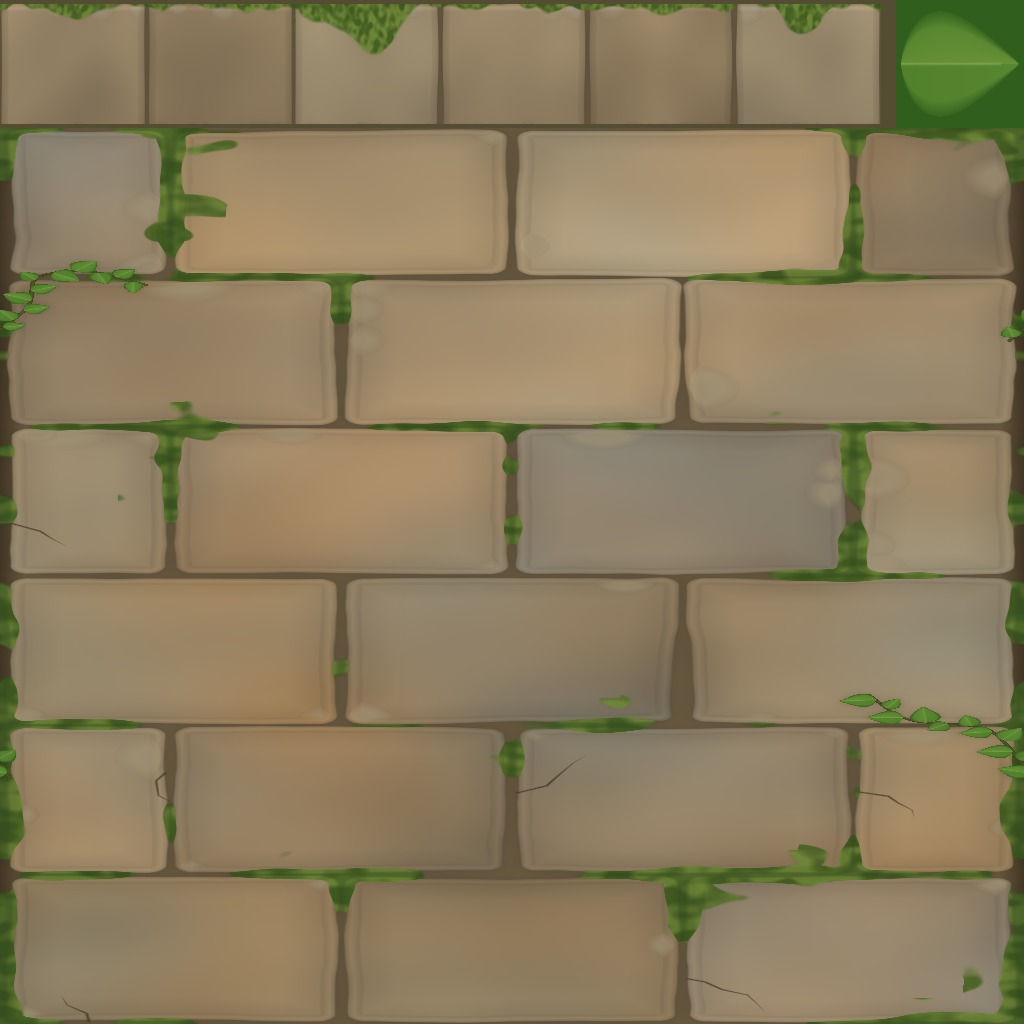
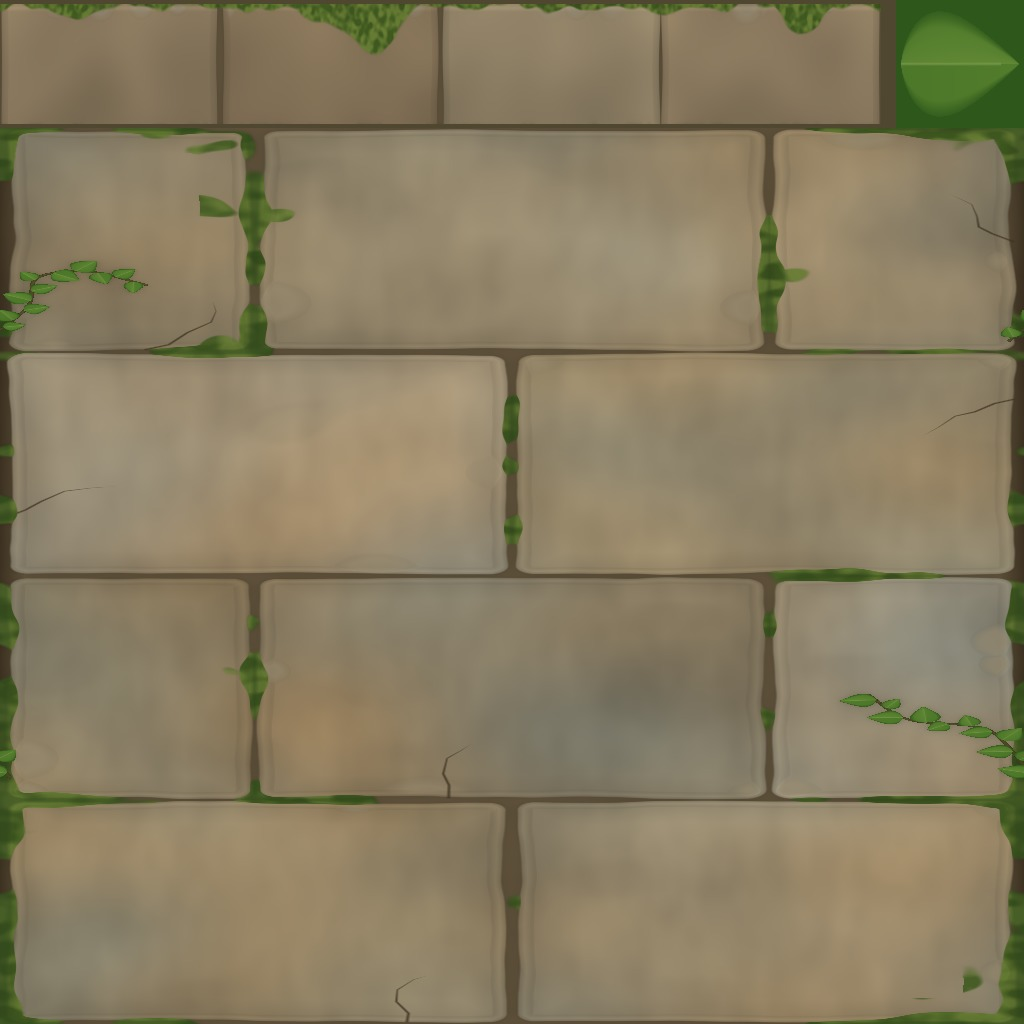
Piedra del túnel en sillares grandes y limpios (se leía recargada a toda velocidad)

diff --git a/tools/blender/build_tunnel_kit.py b/tools/blender/build_tunnel_kit.py
@@ -50,6 +50,12 @@ TAN15 = math.tan(math.radians(15))
 HWB = HW + T * TAN15              # semiancho en la cara exterior (inglete)
 JE = [-HW, -0.345, 0.345, HW]     # juntas hiladas pares
 JO = [-HW, -0.69, 0.0, 0.69, HW]  # juntas hiladas impares (aparejo a soga)
+# sillería de la textura: losas grandes, una por carril y hilada (el concepto C·3); a ladrillitos
+# se leía recargado a toda velocidad. La geometría sigue usando CL (ventanas y cristales).
+TNC = 4
+TCL = L / TNC                     # 1 m por hilada
+TJE = [-HW, 0.0, HW]              # dos sillares por carril, a soga
+TJO = [-HW, -0.52, 0.52, HW]
 G = 0.024                         # media llaga (referencia)
 GI, GS = 0.011, 0.022             # media llaga interior / en la costura de carril
 
@@ -240,11 +246,11 @@ def stone_top(seed=11):
     rng = np.random.default_rng(seed)
     shape = XX.shape
 
-    course = (np.floor(ZZ / CL).astype(np.int32)) % NC
+    course = (np.floor(ZZ / TCL).astype(np.int32)) % TNC
     kk = np.zeros(shape, np.int32)
     jl = np.zeros(shape, np.float32)
     jr = np.zeros(shape, np.float32)
-    for parity, J in ((0, JE), (1, JO)):
+    for parity, J in ((0, TJE), (1, TJO)):
         m = (course % 2) == parity
         Ja = np.array(J, np.float32)
         idx = np.clip(np.searchsorted(Ja, XX[m], side='right') - 1, 0, len(J) - 2)
@@ -252,11 +258,11 @@ def stone_top(seed=11):
         jl[m] = Ja[idx]
         jr[m] = Ja[idx + 1]
     bid = course * 5 + kk
-    NB = NC * 5
+    NB = TNC * 5
     cx = (jl + jr) / 2
     hx = (jr - jl) / 2
-    cz = (course + 0.5) * CL
-    hz = CL / 2
+    cz = (course + 0.5) * TCL
+    hz = TCL / 2
     lx = XX - cx
     lz = ZZ - cz
 
@@ -286,7 +292,8 @@ def stone_top(seed=11):
     prof = 0.45 * t + 0.55 * np.sqrt(1 - (1 - t) ** 2)
     top = (0.012 + base[bid] + tlx[bid] * lx + tlz[bid] * lz
            + dome[bid] * (1 - (lx / hx) ** 2) * (1 - (lz / hz) ** 2)
-           + 0.0018 * n1 + 0.0003 * n2)
+           + 0.0022 * n1 + 0.0006 * n2
+           + 0.0009 * pnoise(shape, dx * 6, dz, 0.3, seed + 15))       # veta en relieve
     GR = -0.026 + 0.0015 * n2
     seam = np.clip(1 - (HW - np.abs(XX)) / 0.05, 0, 1)
     GR = GR - 0.008 * seam
@@ -295,7 +302,7 @@ def stone_top(seed=11):
         m = bid == b
         if not m.any():
             continue
-        for _ in range(int(rng.integers(1, 3))):
+        for _ in range(int(rng.random() < 0.5)):
             side = int(rng.integers(4))
             dist = [ax_[m] - llx[m], ax_[m] + llx[m], az_ - lz[m], az_ + lz[m]][side]
             fw, fd = rng.uniform(0.09, 0.2), rng.uniform(0.004, 0.009)
@@ -312,7 +319,7 @@ def stone_top(seed=11):
         axb = float(ax_[m][0])
         ox = float(ccx[m][0] - cx[m][0])
         az = az_
-        for _ in range(int(rng.integers(1, 4))):
+        for _ in range(int(rng.integers(2, 5))):
             if rng.random() < 0.5:
                 px, pz = axb * rng.choice([-1, 1]), az * rng.choice([-1, 1])
             else:
@@ -328,7 +335,7 @@ def stone_top(seed=11):
             chip[m] = np.maximum(chip[m], H[m] - nh)
             H[m] = nh
         # grietas que nacen en un borde (30 % de los bloques)
-        if rng.random() < 0.3:
+        for _ in range(int(rng.random() < 0.5)):
             side = int(rng.integers(4))
             u = rng.uniform(-0.6, 0.6)
             p = [(axb, u * az), (-axb, u * az), (u * axb, az), (u * axb, -az)][side]
@@ -358,13 +365,17 @@ def stone_top(seed=11):
     H = lerp(H, np.maximum(H, Hm), moss).astype(np.float32)
 
     # --- albedo (sRGB): arenisca cálida, variada por bloque, sin ruido fino
-    pal = np.stack([srgb(c) for c in ('#cbb088', '#c6aa80', '#d1b890', '#c4ab86', '#cdb28a', '#c2a883',
-                                      '#c3b194')])
+    pal = np.stack([srgb(c) for c in ('#d6c39c', '#d0bb92', '#dac7a3', '#cfbc96')])
     pidx = rng.integers(0, len(pal), NB)
-    vgain = rng.uniform(0.93, 1.06, NB)
+    vgain = rng.uniform(0.96, 1.04, NB)
     gdx = rng.uniform(-1, 1, NB)
     gdz = rng.uniform(-1, 1, NB)
-    A = pal[pidx[bid]] * (vgain[bid] * (1 + 0.03 * n_big + 0.02 * n1
+    # veta de la piedra a lo largo de la vía (ruido estirado en Z) y manchas de intemperie
+    grain = pnoise(shape, dx * 6, dz, 0.35, seed + 12)
+    grain2 = pnoise(shape, dx * 3, dz, 0.12, seed + 13)
+    stain = pnoise(shape, dx, dz, 0.22, seed + 14)
+    A = pal[pidx[bid]] * (vgain[bid] * (1 + 0.03 * n_big + 0.025 * n1 + 0.012 * grain + 0.008 * grain2
+                                        - 0.03 * sstep(0.8, 2.0, stain)
                                         + 0.035 * (gdx[bid] * lx / hx + gdz[bid] * lz / hz)))[..., None]
     warm = pnoise(shape, dx, dz, 0.5, seed + 9)
     A = A * (1 + np.stack([0.025 * warm, 0.0 * warm, -0.03 * warm], -1))   # moteado cálido/frío suave
@@ -414,11 +425,11 @@ def stone_strip(seed=23):
     n2 = pnoise(shape, ds, dp, 0.08, seed + 2)
     nm = pnoise(shape, ds, dp, 0.3, seed + 3)
     nmf = pnoise(shape, ds, dp, 0.02, seed + 4)
-    c = np.floor(SS / CL)
-    ls = SS - (c + 0.5) * CL
-    e = (CL / 2 - GI) - np.abs(ls) + 0.003 * n1
+    c = np.floor(SS / TCL)
+    ls = SS - (c + 0.5) * TCL
+    e = (TCL / 2 - GI) - np.abs(ls) + 0.003 * n1
     t = np.clip(e / 0.032, 0, 1)
-    top = 0.01 + 0.002 * n1 + 0.004 * (1 - (ls / (CL / 2)) ** 2)
+    top = 0.01 + 0.002 * n1 + 0.004 * (1 - (ls / (TCL / 2)) ** 2)
     GR = -0.028
     H = np.where(e > 0, GR + (top - GR) * (0.45 * t + 0.55 * np.sqrt(1 - (1 - t) ** 2)), GR)
     # desconchones en la arista superior
@@ -1115,13 +1126,13 @@ def join_into(target, others):
 
 
 # ------------------------------------------------------------------ cajas
-BOX_BLOCKS = [(0, 0), (0, 1), (2, 2), (2, 0), (4, 1), (4, 2)]   # (hilada, bloque) de la textura
+BOX_BLOCKS = [(0, 0), (0, 1), (2, 0), (2, 1), (0, 1), (2, 0)]   # hiladas sin hiedra   # (hilada, bloque) de la textura
 
 
 def block_rect(course, k):
-    J = JE if course % 2 == 0 else JO
+    J = TJE if course % 2 == 0 else TJO
     x0, x1 = J[k] + GS + 0.012, J[k + 1] - GS - 0.012
-    z0, z1 = course * CL + GS + 0.012, (course + 1) * CL - GS - 0.012
+    z0, z1 = course * TCL + GS + 0.012, (course + 1) * TCL - GS - 0.012
     u0, v0 = uv_top(x0, z0)
     u1, v1 = uv_top(x1, z1)
     return u0, v0, u1, v1
